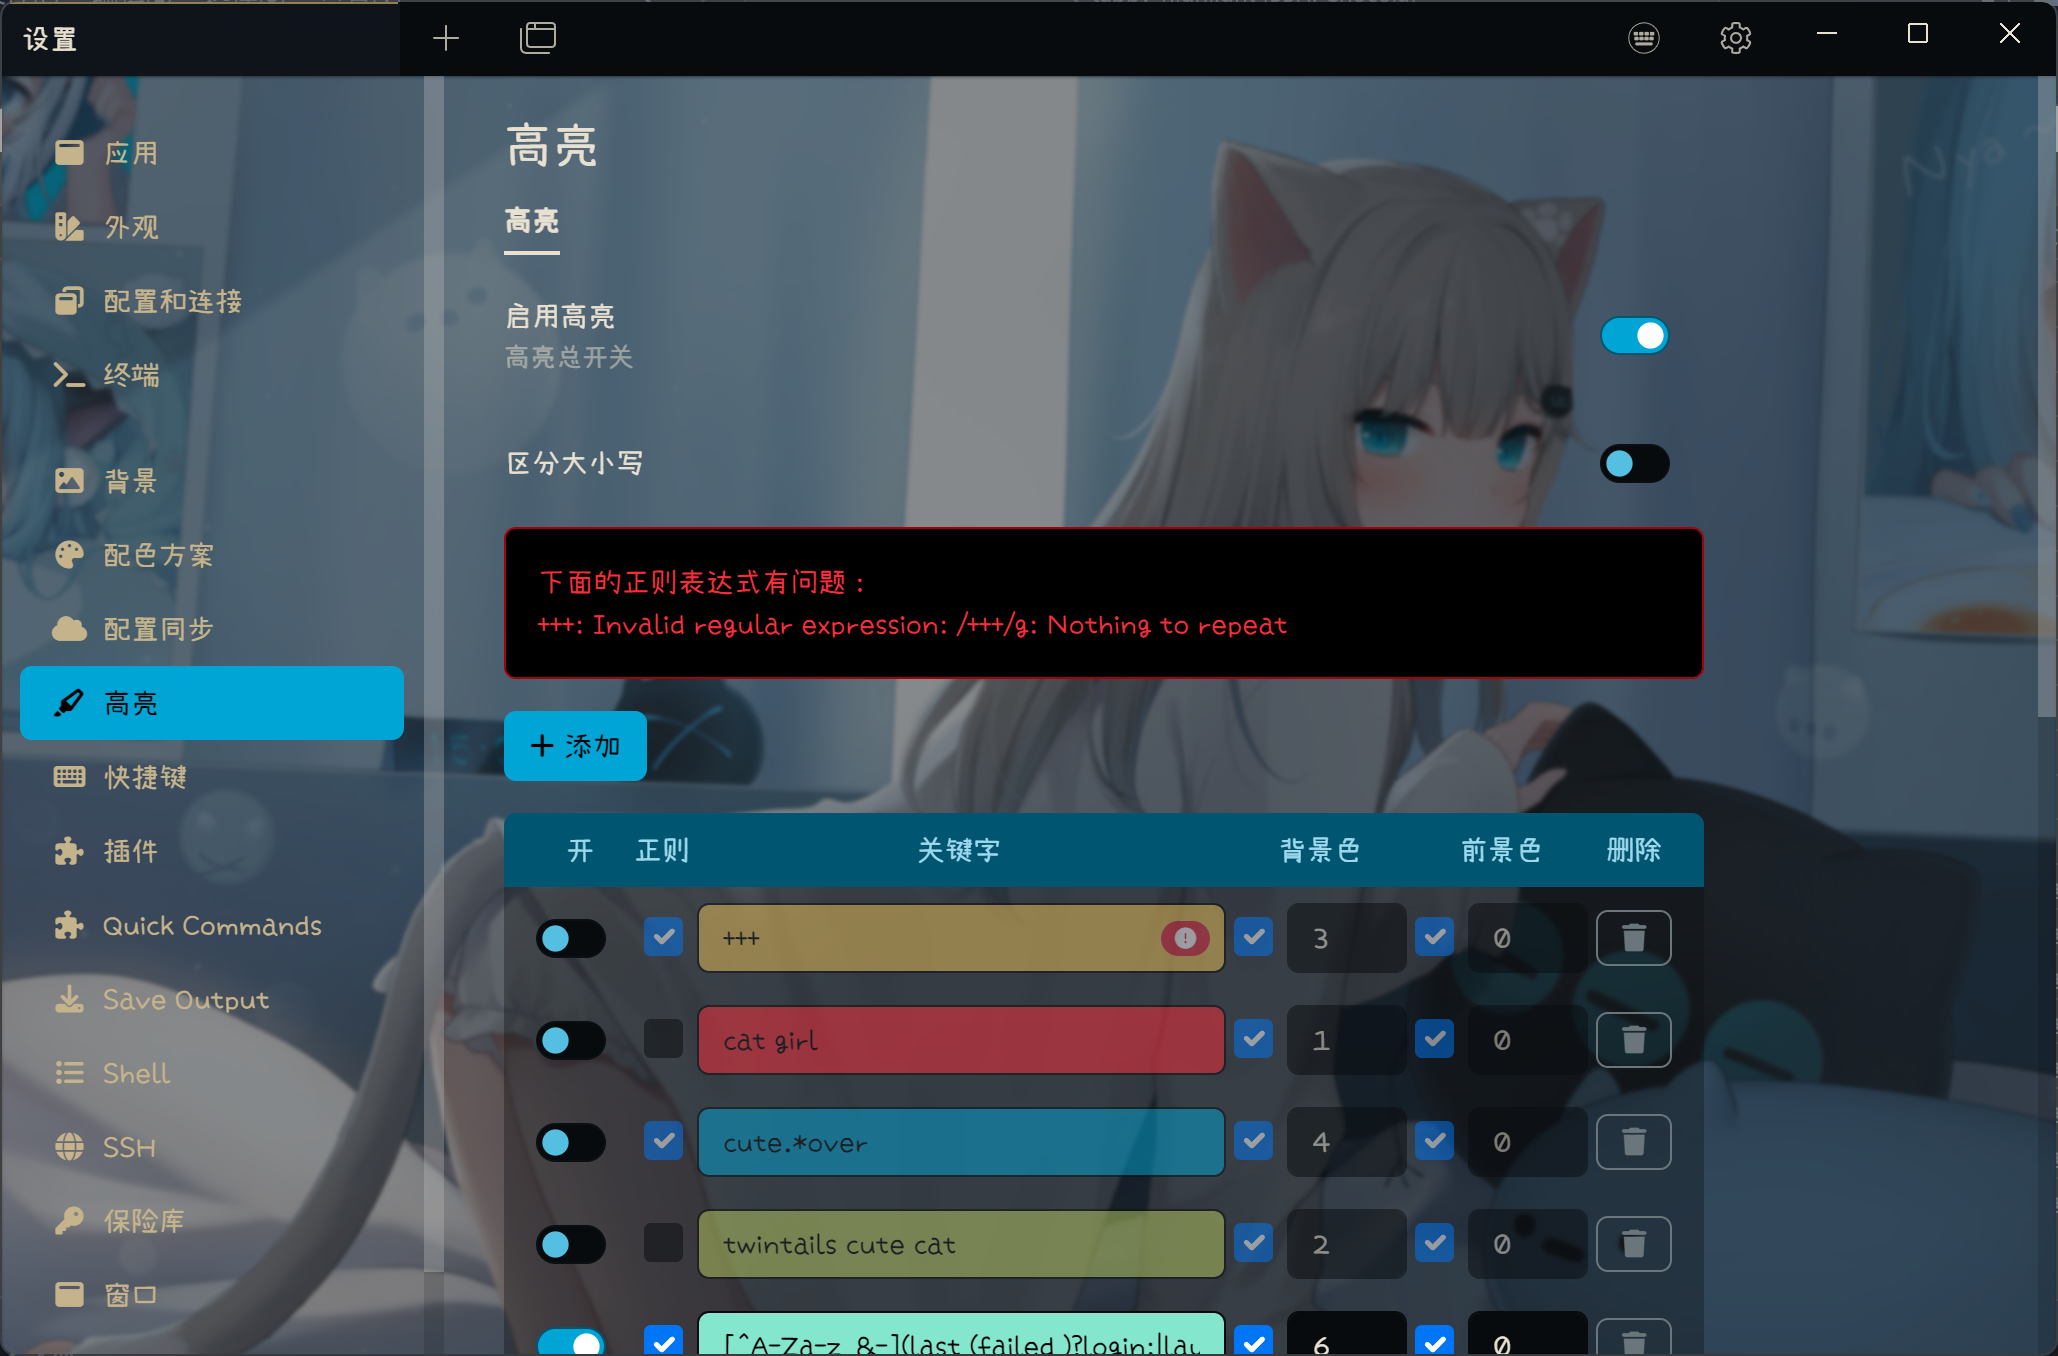
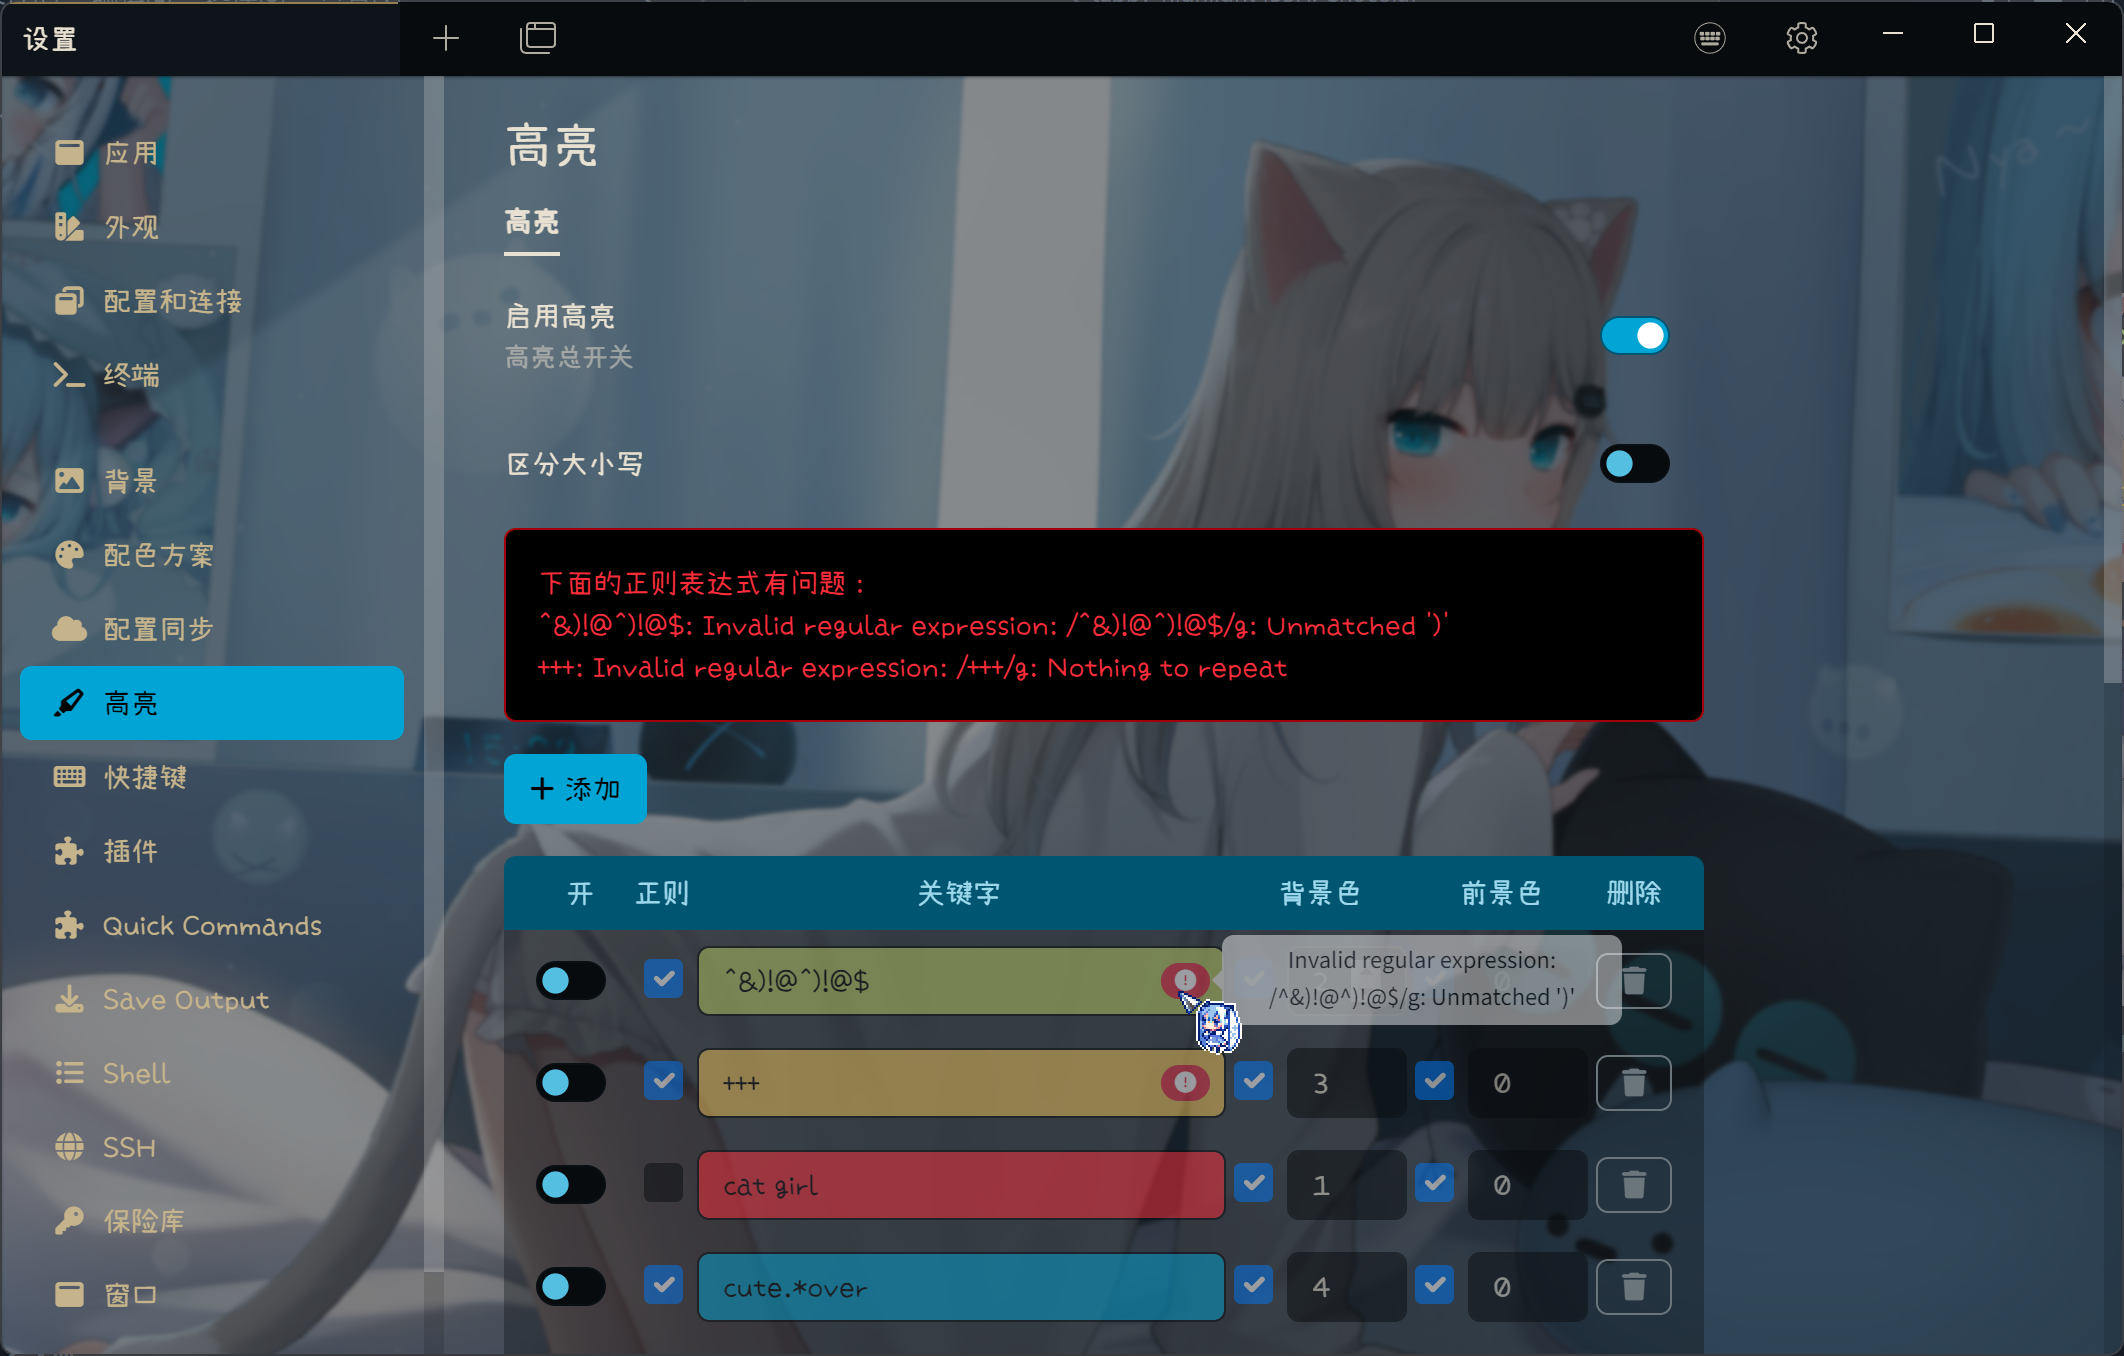
improve verify.

diff --git a/src/settingsTab.component.ts b/src/settingsTab.component.ts
@@ -14,7 +14,7 @@ import { HighlightKeyword } from "./configProvider";
 export class HighlightSettingsTabComponent {
   alertMessage: string;
   alertType: "info" | "success" | "danger";
-  verifyStatus: boolean[];
+  verifyStatus: [boolean, string][];
   constructor(
     public config: ConfigService,
     private electron: ElectronService,
@@ -67,16 +67,18 @@ export class HighlightSettingsTabComponent {
     const { highlightKeywords } = this.config.store.highlightPlugin;
     for (const keyword of highlightKeywords) {
       let status = true;
+      let errInfo = "";
       const { isRegExp, text } = keyword;
       if (isRegExp) {
         try {
           const regexp = new RegExp(text, "g");
         } catch (e) {
           errorRegexp.push([text, e.message]);
+          errInfo = e.message;
           status = false;
         }
       }
-      this.verifyStatus.push(status);
+      this.verifyStatus.push([status, errInfo]);
     }
     if (errorRegexp.length > 0) {
       this.alertMessage =
